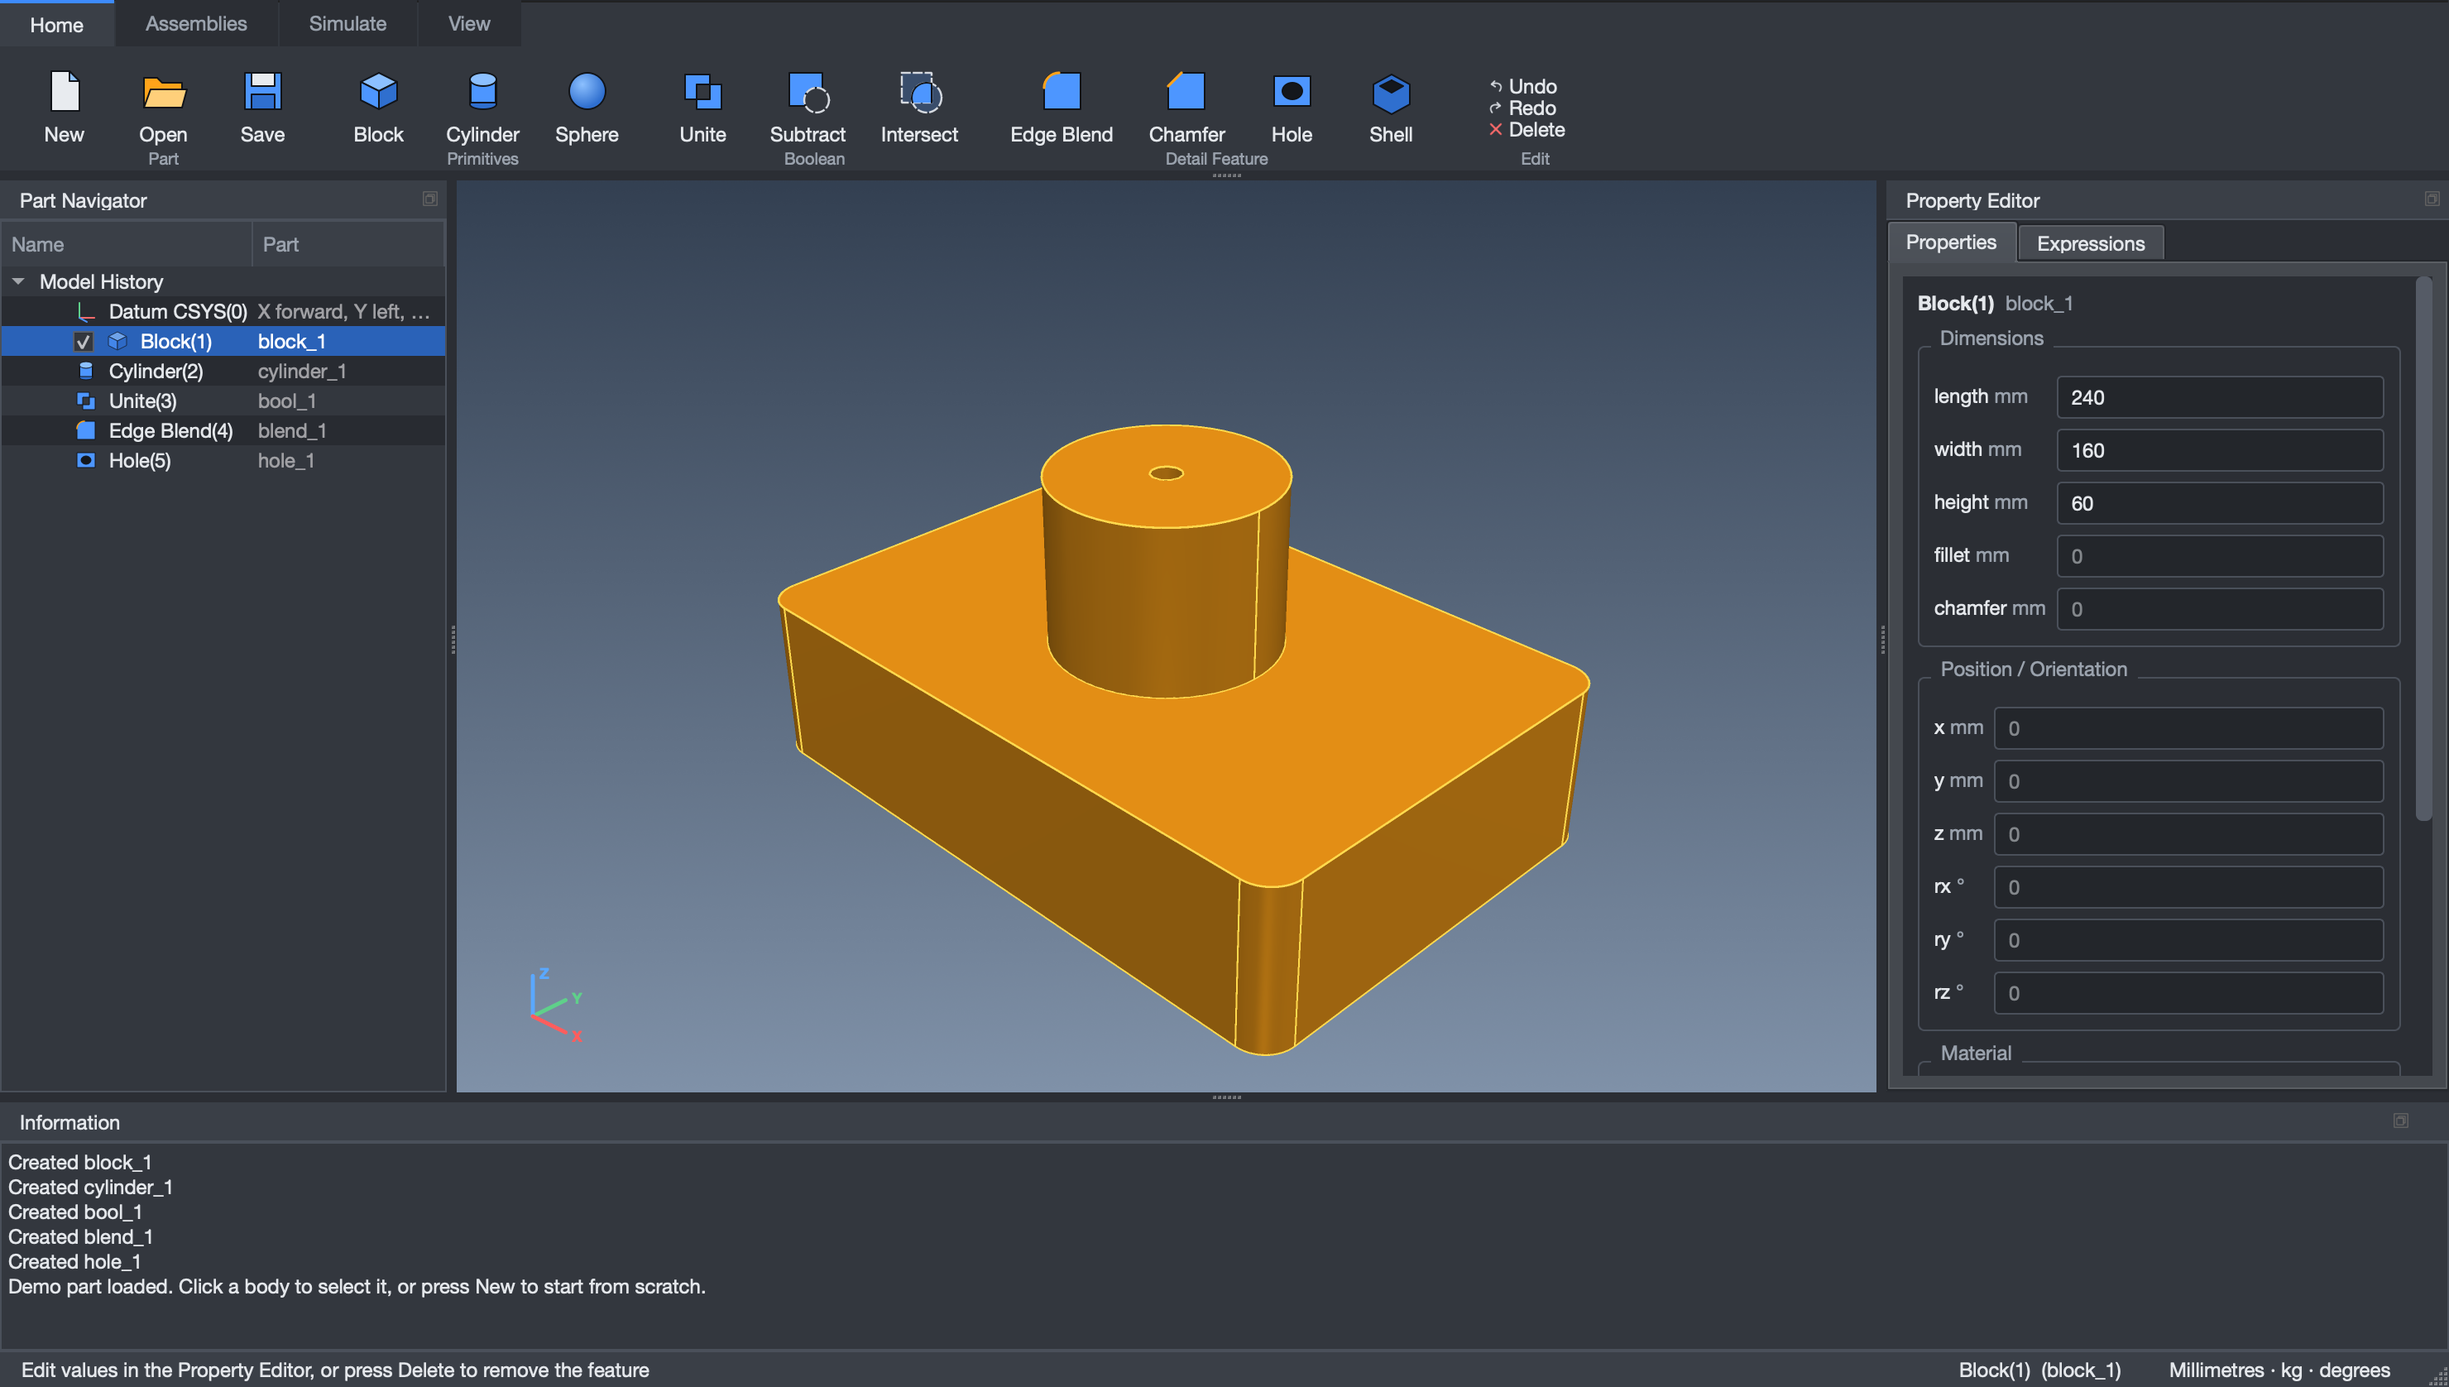
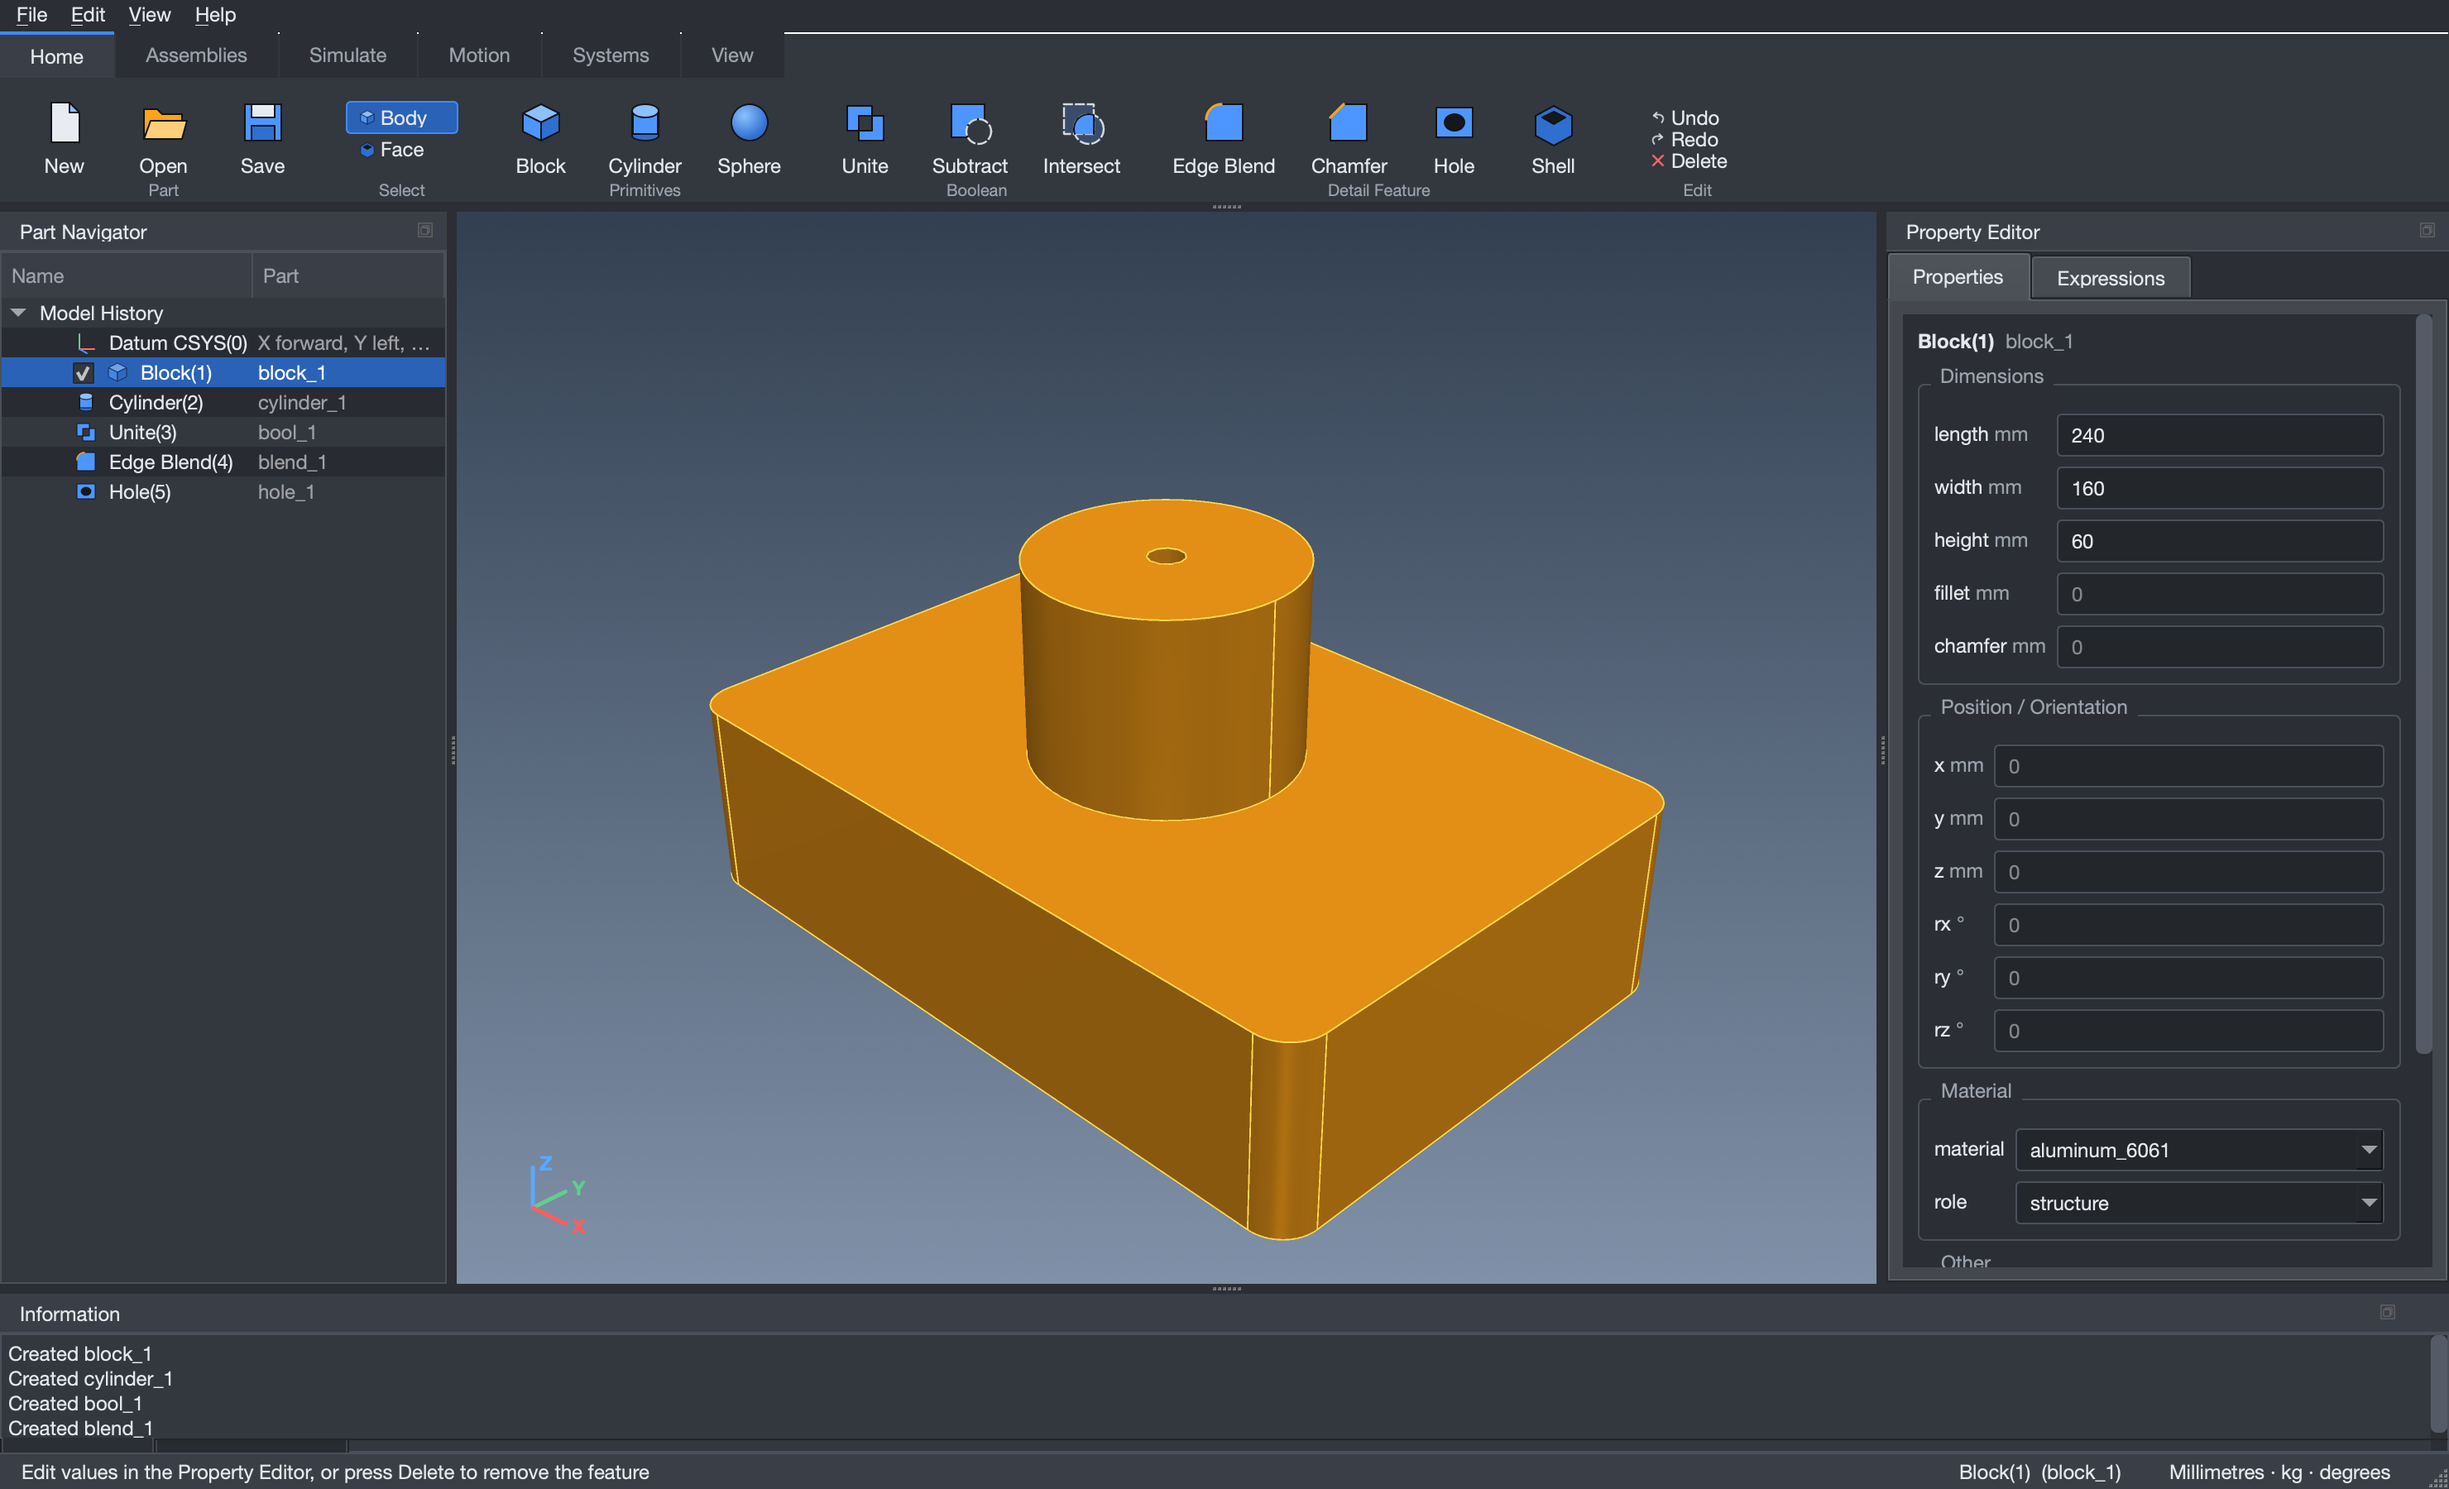
README: show the software, not a satellite, at the top
The top picture is now a screenshot of the current satCAD window with the small demo part
(made by tools/make_readme_picture.py); the old matplotlib satellite diagram is removed.

diff --git a/tools/make_readme_picture.py b/tools/make_readme_picture.py
@@ -1,0 +1,57 @@
+"""Captures the picture at the top of the README: the satCAD window with the small demo part (a block, a boss, a rounded edge and a hole). Software only, no satellite.
+
+    python tools/make_readme_picture.py          # writes docs/satcad_app.png
+"""
+from __future__ import annotations
+
+import os
+import sys
+import tempfile
+from pathlib import Path
+
+os.environ.setdefault("QT_QPA_PLATFORM", "offscreen")
+os.environ.setdefault("QT_SCALE_FACTOR", "2")                                    # a sharp, retina-style picture
+os.environ["SATCAD_DESIGNS"] = tempfile.mkdtemp(prefix="satcad_readme_")        # keep the real designs folder untouched
+ROOT = Path(__file__).resolve().parents[1]
+sys.path.insert(0, str(ROOT))
+
+from PySide6.QtCore import Qt  # noqa: E402
+from PySide6.QtWidgets import QApplication, QDockWidget  # noqa: E402
+
+from satcad.gui import theme  # noqa: E402
+from satcad.gui.session import Session  # noqa: E402
+from satcad.gui.ui_layout import MainWindow  # noqa: E402
+
+app = QApplication.instance() or QApplication([])
+theme.apply(app)
+
+
+def settle(n: int = 6) -> None:
+    for _ in range(n):
+        app.processEvents()
+
+
+def main() -> None:
+    s = Session()
+    win = MainWindow(s)
+    win.resize(1480, 900)
+    win.show()
+    settle()
+    docks = {d.objectName(): d for d in win.findChildren(QDockWidget)}
+    win.resizeDocks([docks["infoDock"]], [96], Qt.Vertical)
+    s.add("box", length=240, width=160, height=60)
+    s.add("cylinder", radius=40, height=60, z=60)
+    s.add("boolean", operation="unite", target="block_1", tool="cylinder_1")
+    s.add("fillet_edges", target="block_1", edges="parallel:z", radius=12)
+    s.add("hole", target="block_1", side="+z", standard="M10", hole_type="clearance", depth=0)
+    s.select("block_1")
+    win.viewport.set_view("iso")
+    settle()
+    out = ROOT / "docs" / "satcad_app.png"
+    win.grab().save(str(out))
+    print("wrote", out)
+    win.close()
+
+
+if __name__ == "__main__":
+    main()

diff --git a/README.md b/README.md
@@ -6,10 +6,9 @@ run a first-order **vibration and stress analysis** on it, and export it as a CA
 whole design. You do not need any CAD experience. It can also be used as an ordinary Python library, or through ready-made
 example scripts.
 
-![A server housing with two radiator wings and a laser terminal, built through SatCAD](docs/example_orbital_node.png)
+![The satCAD desktop application: ribbon, Part Navigator, 3D viewport, Property Editor and Information window](docs/satcad_app.png)
 
-*Built entirely by Claude through SatCAD: a 3 m server housing, two radiator wings sized from a 50 kW heat
-load, and a laser terminal.*
+*The satCAD desktop app: ribbon across the top, the feature tree on the left, the 3D view in the middle and the editable settings of the selected part on the right.*
 
 SatCAD is built on **[build123d](https://github.com/gumyr/build123d)** (a free, open-source CAD library on the
 OpenCascade geometry kernel) and talks to Claude through the **Model Context Protocol (MCP)**. It was written
@@ -129,7 +128,7 @@ feature tree on the left (Datum CSYS(0), Block(1), Cylinder(2), Unite(3), Edge B
 dimensions of whatever is selected, plus an Expressions tab), a shaded **3D viewport** with edge highlights in the centre, and an Information window
 for messages and results. Dark theme throughout. It is NX-*inspired* (layout and workflow); it uses none of Siemens' artwork or code.
 
-![The satCAD desktop application](docs/satcad_app.png)
+![The satCAD window with its five areas numbered](docs/howto/01_overview.png)
 
 **Download it:** the **Releases** page has a `.dmg` for Apple-silicon Macs and a `-setup.exe` installer for Windows (unsigned, so the first launch shows a warning; the release notes explain the two clicks). **Or run it from source** (Python 3.10 or newer; the graphics libraries are large, roughly 400 MB):
 
@@ -877,6 +876,7 @@ Open-source-CAD-software/
 │
 ├── tools/alpha_motion.py        the recipe for the example file with motion (not part of the app)
 ├── tools/make_howto_images.py   captures the annotated screenshots for the how-to guide from the real app
+├── tools/make_readme_picture.py captures the picture at the top of this README (the app with a small demo part)
 ├── tools/smoke_test_app.py   starts a packaged Studio and proves it works (used by the build)
 ├── .github/workflows/studio-release.yml   builds the Mac and Windows apps and publishes a release when a version tag is pushed
 │
@@ -886,7 +886,7 @@ Open-source-CAD-software/
     ├── RELEASE_NOTES.md                  the text shown on each GitHub release
     ├── NX_BENCHMARK.md                   line-by-line scoreboard against Siemens NX's publicly described capabilities
     ├── ROADMAP.md                        what SatCAD covers today vs professional CAD, and the plan to close the gap
-    ├── example_orbital_node.png          the picture at the top of this README
+    ├── satcad_app.png                    the picture at the top of this README (made by tools/make_readme_picture.py)
     ├── orbital_datacentre.png            whole-satellite picture used in section 3f
     └── orbital_datacentre_core_detail.png  cut-away picture used in section 3f
 ```
